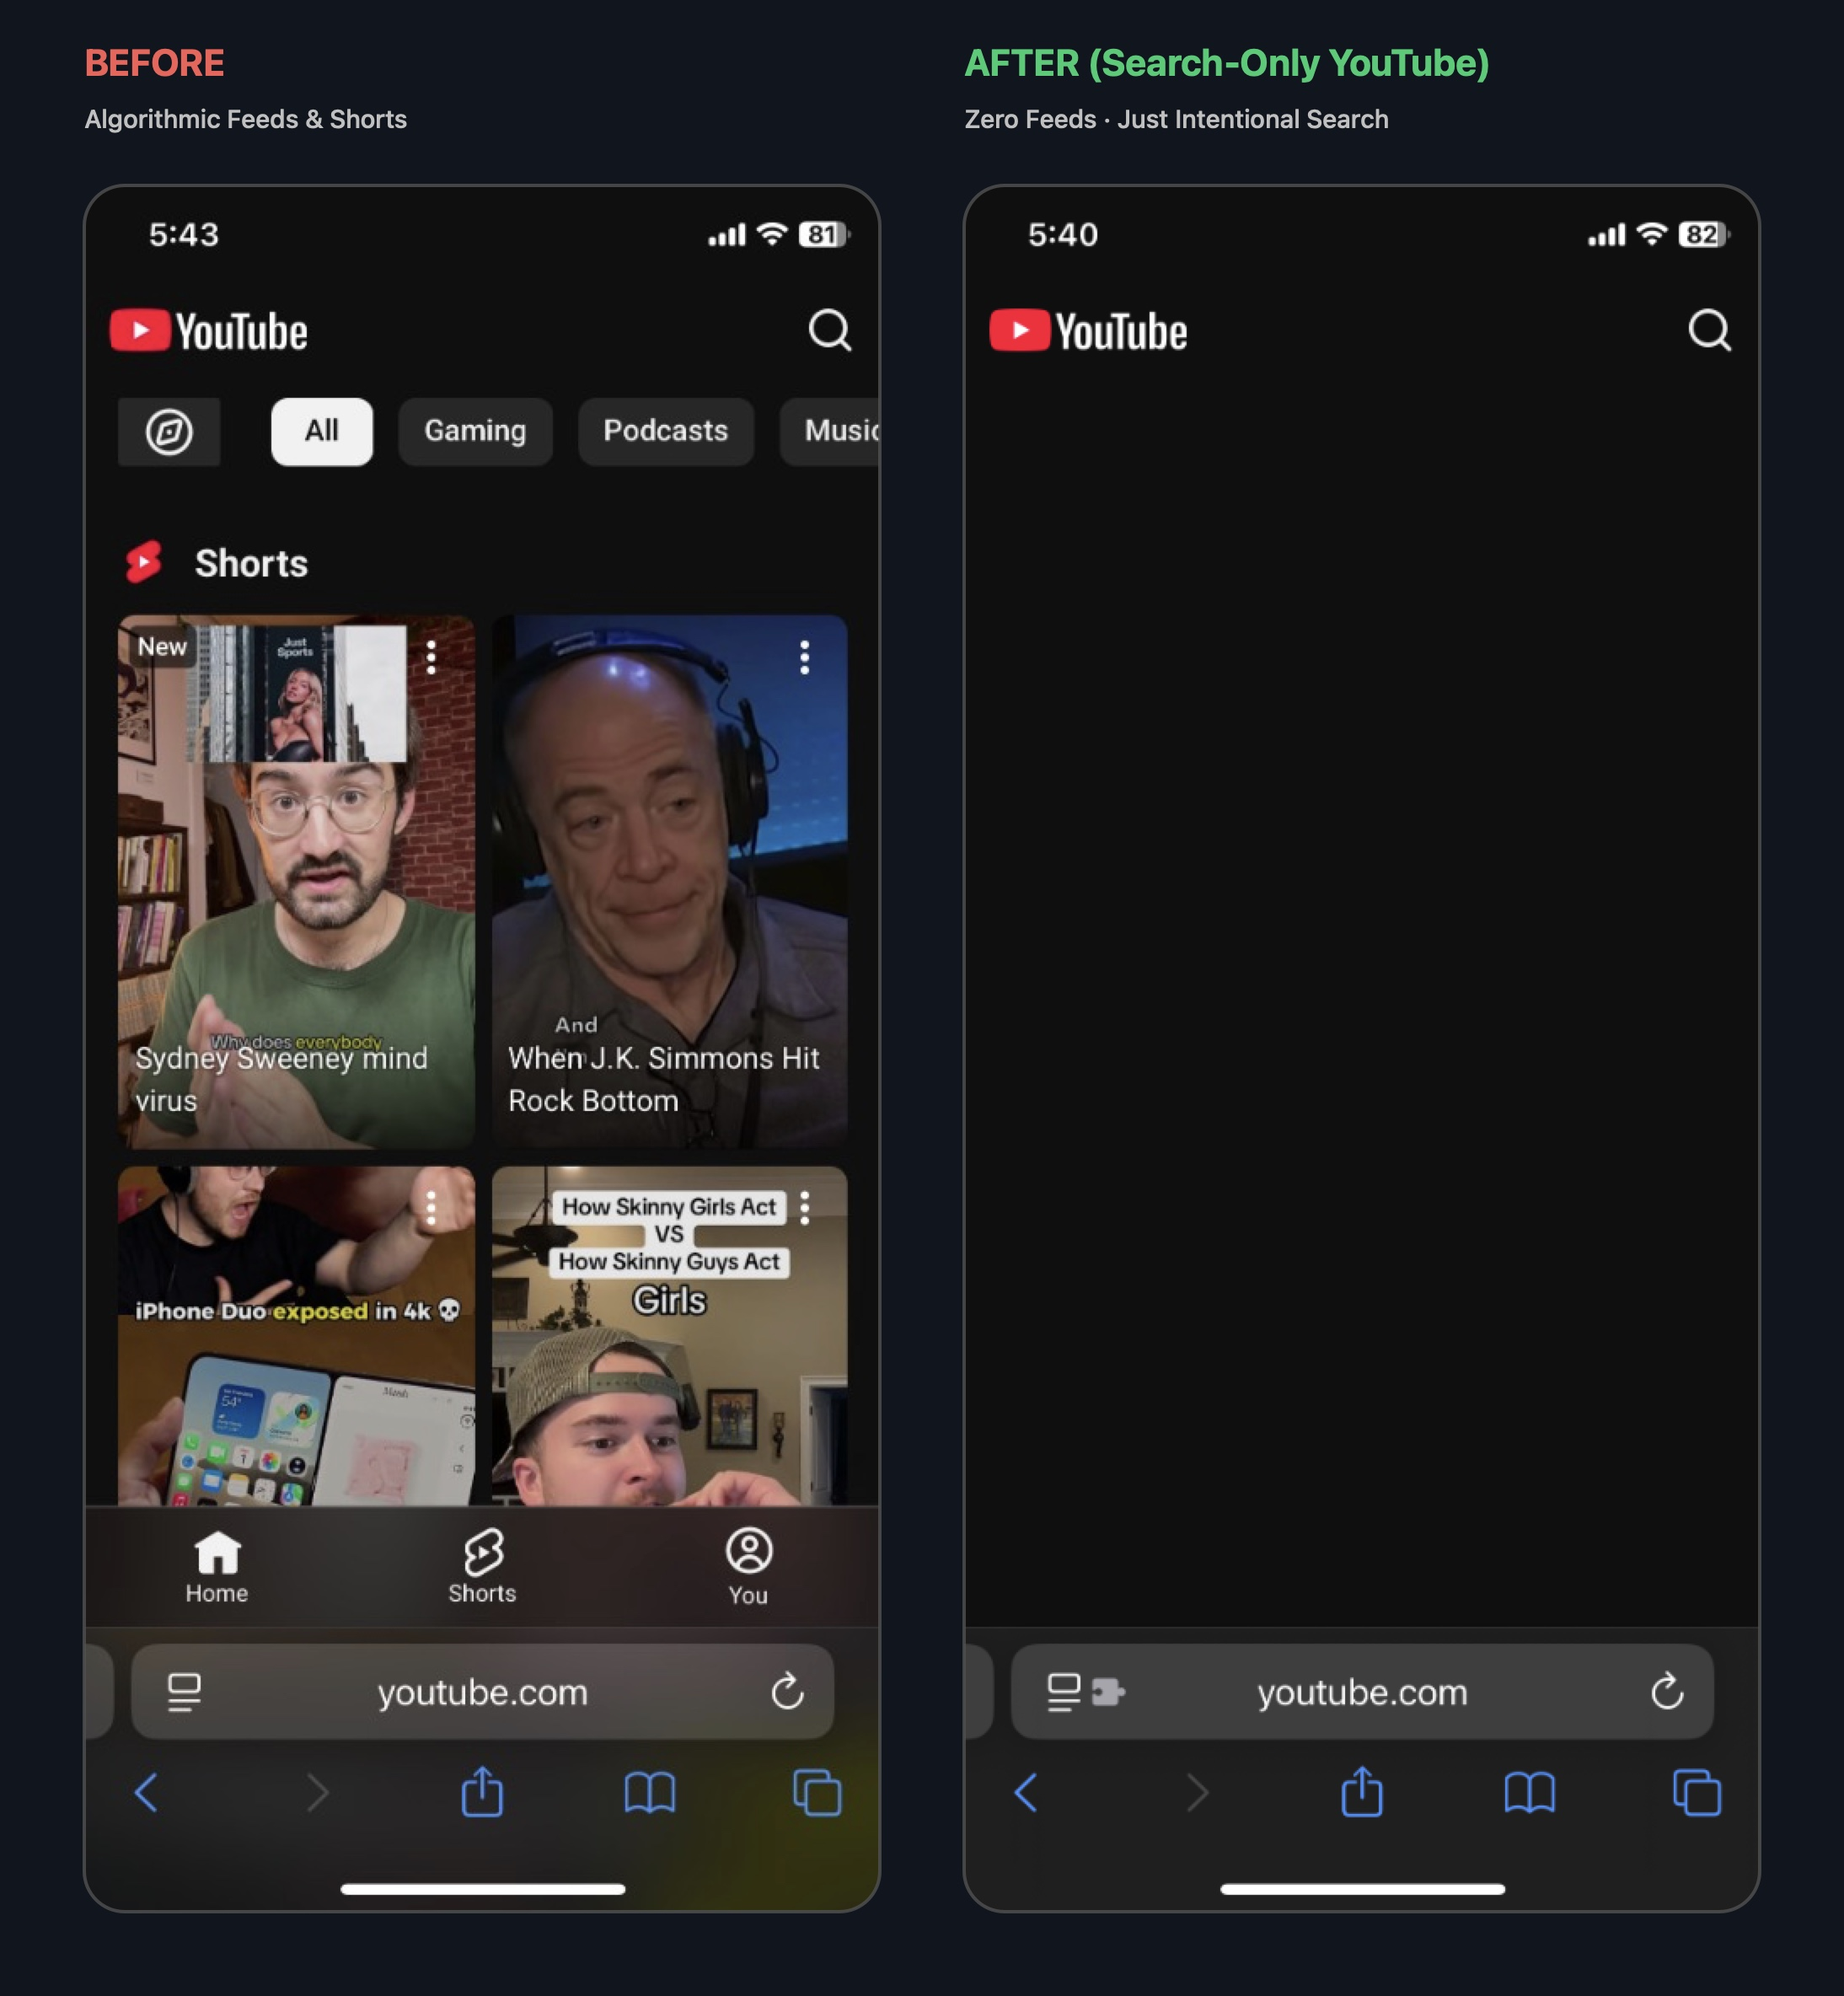
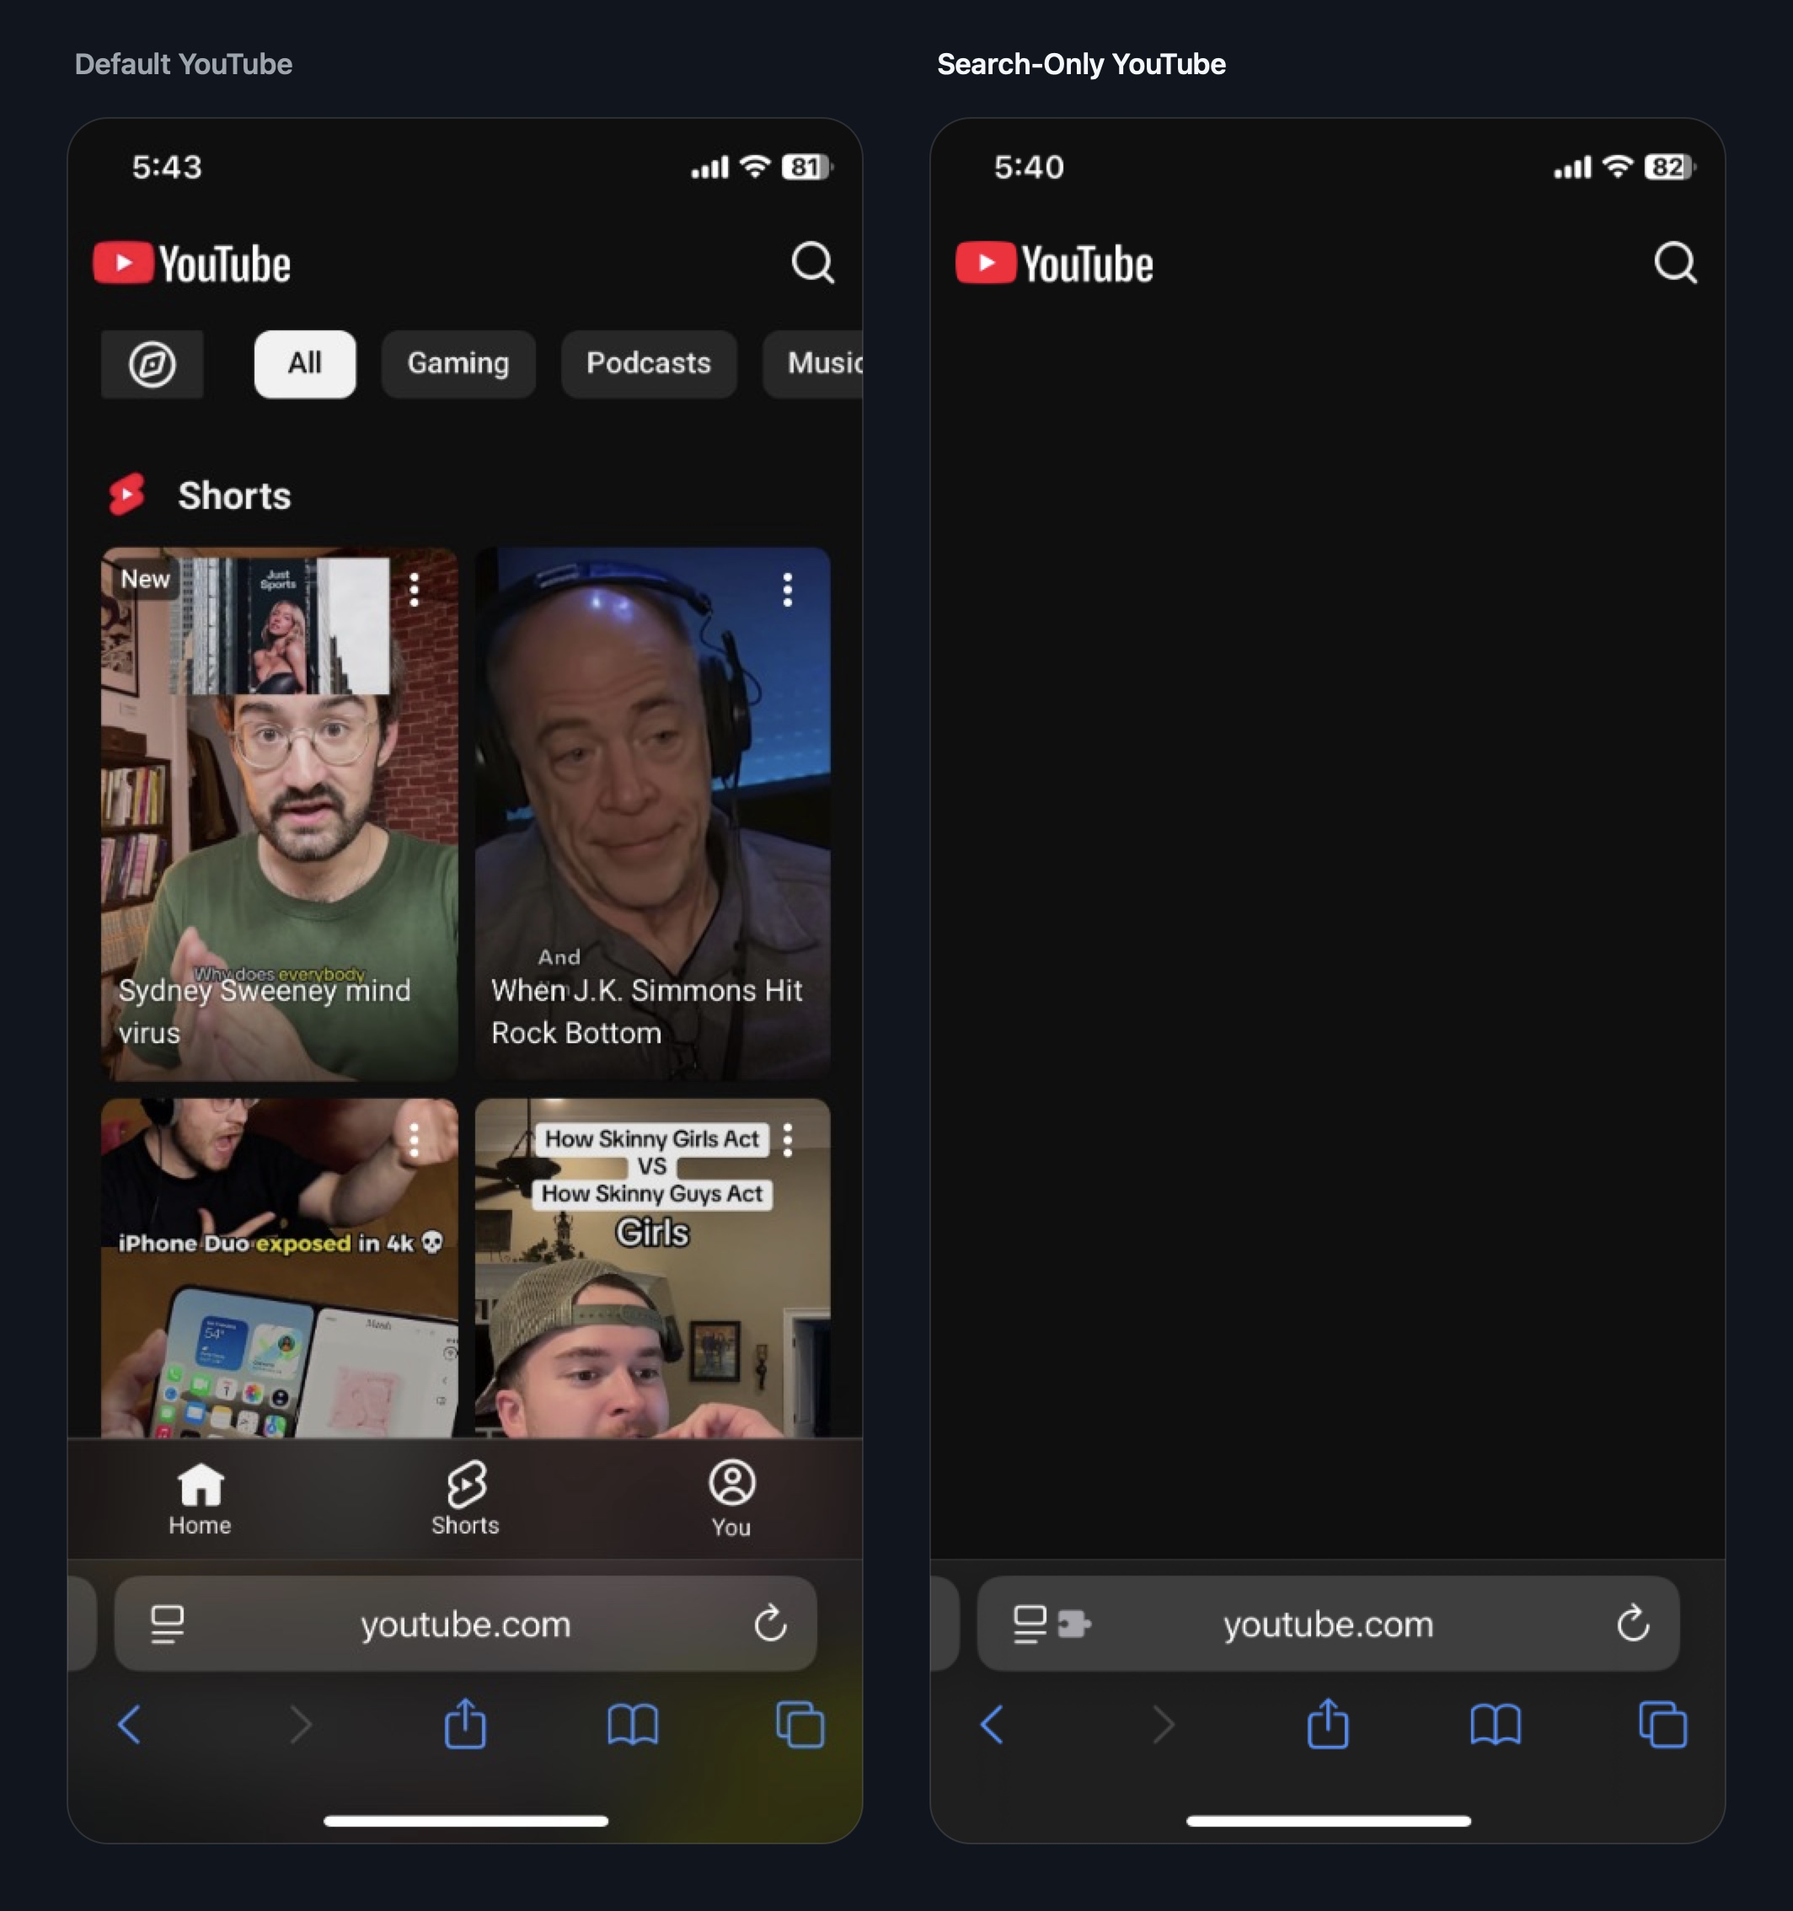
style: Remove finger emojis and refine preview graphic with clean minimalist typography

diff --git a/README.md b/README.md
@@ -26,18 +26,18 @@ Works in Mobile Safari (iOS), Firefox for Android, and desktop browsers.
 1. Install **[Userscripts](https://apps.apple.com/app/userscripts/id1463298887)** from the App Store (free and open-source).
 2. Enable it in **Settings > Safari > Extensions > Userscripts** (set permissions to **Always Allow**).
 3. Open this link in Safari and tap **Install**:  
-   👉 **[Install Search-Only YouTube](https://raw.githubusercontent.com/jakedarrow/SmartScreenTime/main/smart-screentime.user.js)**
+   **[Install Search-Only YouTube](https://raw.githubusercontent.com/jakedarrow/SmartScreenTime/main/smart-screentime.user.js)**
 
 #### Android (Firefox)
 1. Install **[Firefox for Android](https://play.google.com/store/apps/details?id=org.mozilla.firefox)** from Google Play (free and open-source).
 2. In Firefox, tap the three dots **⋮** > **Add-ons**, and tap **+** next to **Violentmonkey** (or **Tampermonkey**).
 3. Open this link in Firefox and tap **Install**:  
-   👉 **[Install Search-Only YouTube](https://raw.githubusercontent.com/jakedarrow/SmartScreenTime/main/smart-screentime.user.js)**
+   **[Install Search-Only YouTube](https://raw.githubusercontent.com/jakedarrow/SmartScreenTime/main/smart-screentime.user.js)**
 
 #### Desktop (Chrome / Brave / Arc / Edge / Firefox)
 1. Install **Violentmonkey** or **Tampermonkey** from your browser's extension store.
 2. Open the install link and confirm:  
-   👉 **[Install Search-Only YouTube](https://raw.githubusercontent.com/jakedarrow/SmartScreenTime/main/smart-screentime.user.js)**  
+   **[Install Search-Only YouTube](https://raw.githubusercontent.com/jakedarrow/SmartScreenTime/main/smart-screentime.user.js)**  
 *(Alternatively, Chrome users can load the unpacked `SmartScreenTime-Extension` folder via `chrome://extensions`).*
 
 ---
